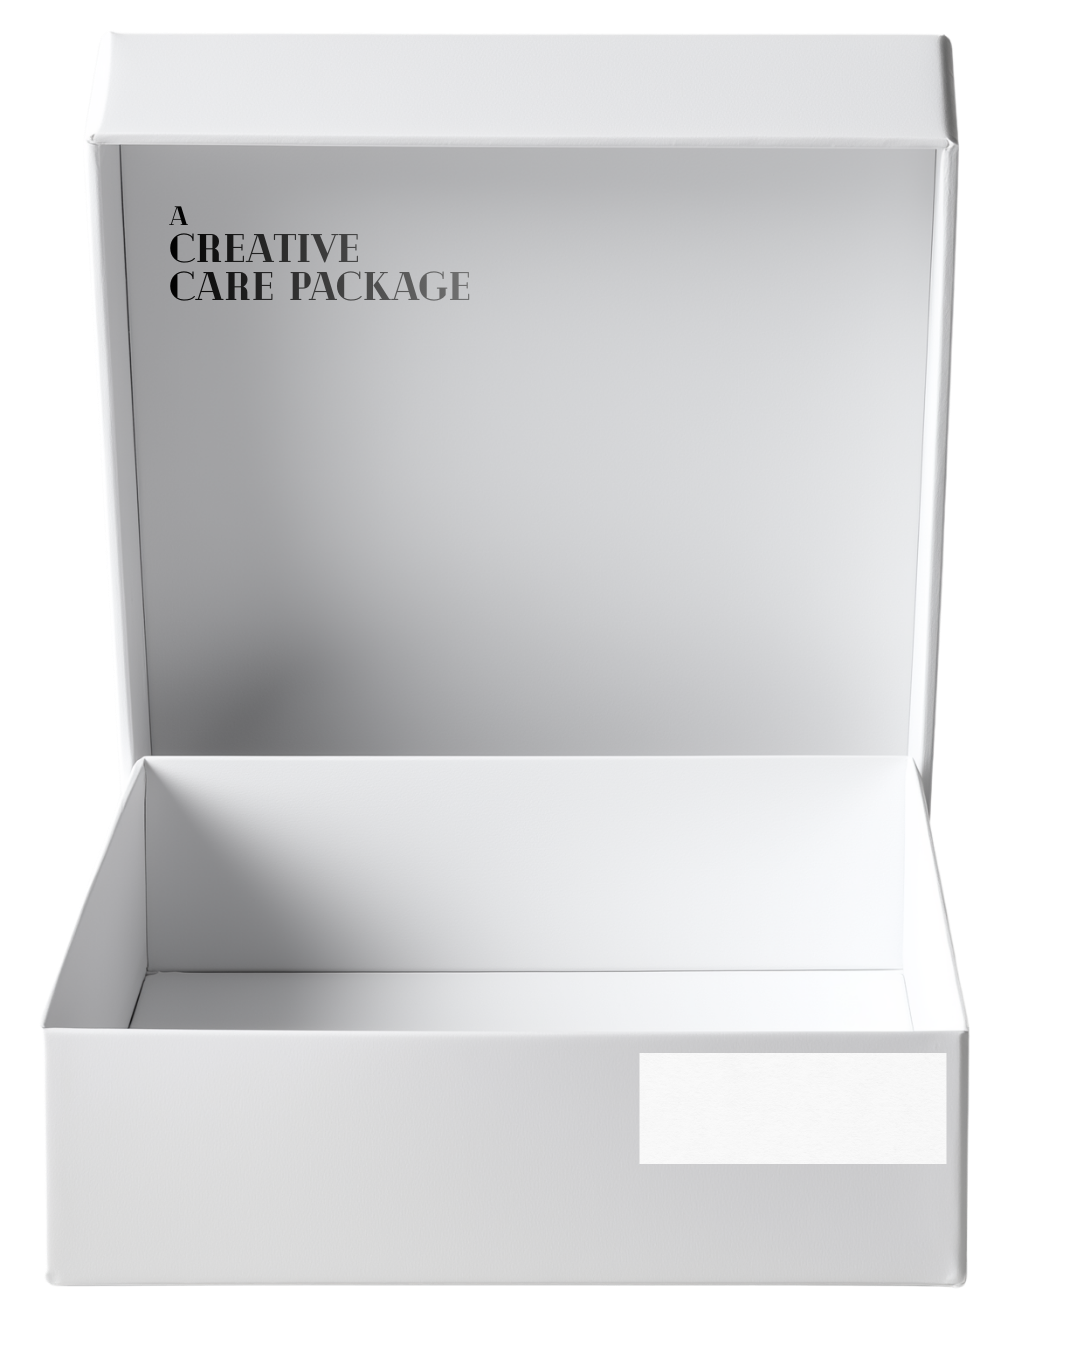
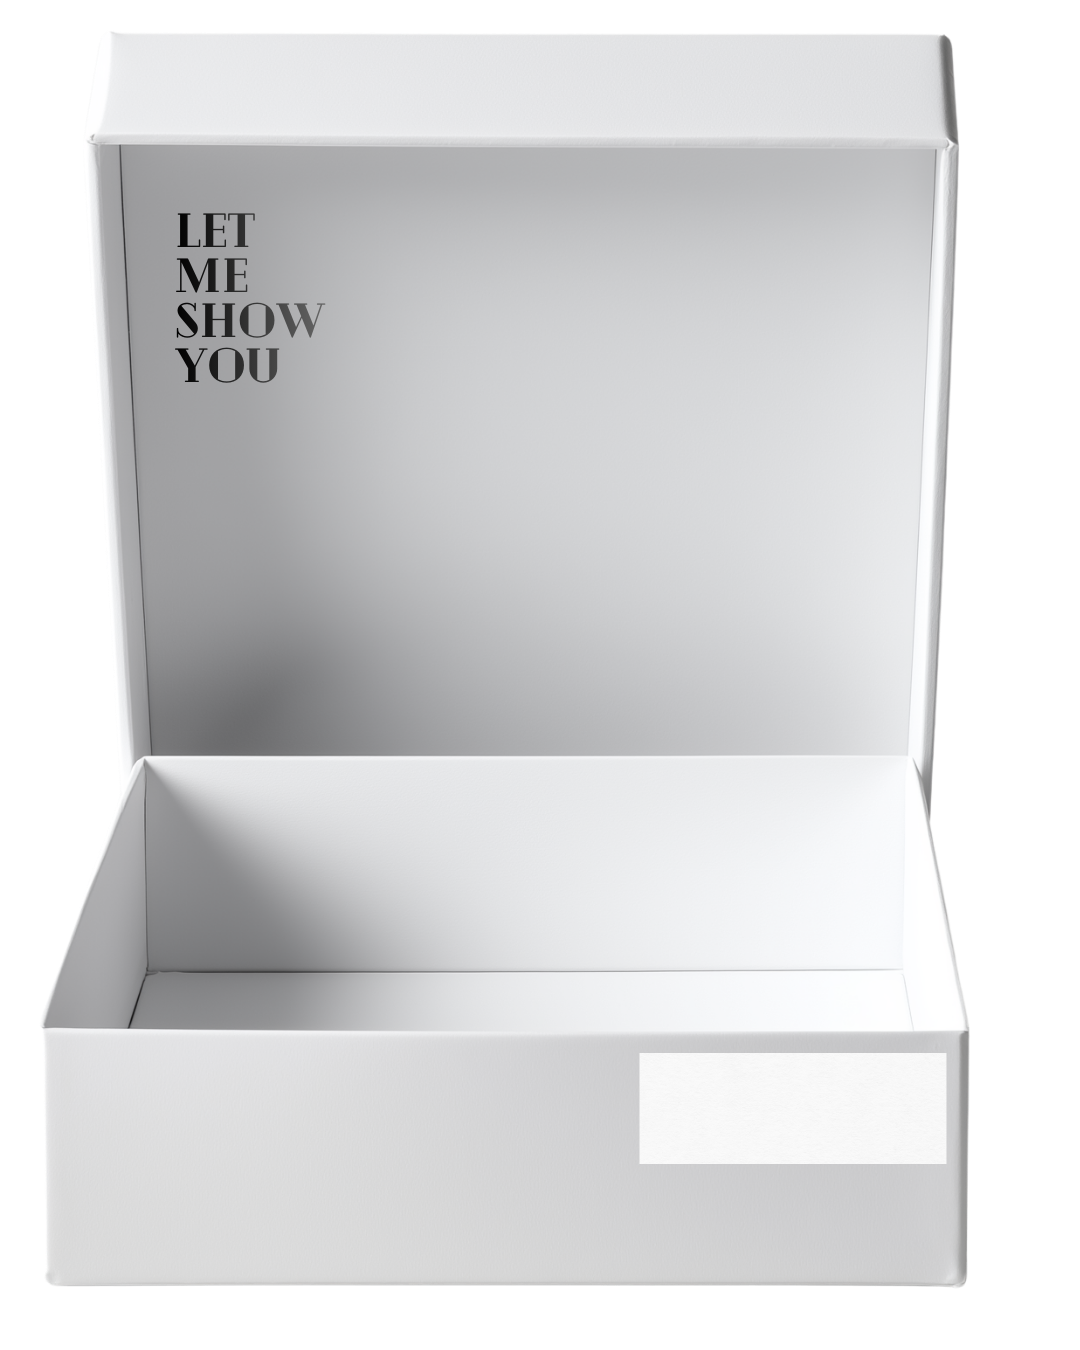
Update about page origin story text
- Simplify dad quote text
- Add "a bunch of" to questions
- Merge "People say I love you" back into paragraph

🤖 Generated with [Claude Code](https://claude.com/claude-code)

Changed region(s): [[0.1528, 0.1556, 0.4278, 0.28]]

diff --git a/app/about/page.tsx b/app/about/page.tsx
@@ -185,7 +185,7 @@ export default function About() {
                 className="overflow-visible"
               >
                 <div className="text-black font-medium font-[family-name:var(--font-inter)]" style={{ color: '#000000', letterSpacing: '-0.03em', fontSize: 'clamp(1.05rem, 3.5vw, 1.2rem)' }}>
-                  When I was 12, I told <span className="relative inline-block cursor-pointer" onClick={() => setShowDadTooltip(!showDadTooltip)} onMouseEnter={() => setShowDadTooltip(true)} onMouseLeave={() => setShowDadTooltip(false)}><strong>my dad</strong><sup style={{ backgroundColor: '#dcff73', borderRadius: '50%', padding: '2px 6px', fontSize: '0.6em', marginLeft: '2px' }}>1</sup><AnimatePresence>{showDadTooltip && (<motion.div initial={{ opacity: 0, y: 10 }} animate={{ opacity: 1, y: 0 }} exit={{ opacity: 0, y: 10 }} className="mobile-tooltip-image absolute left-1/2 -translate-x-1/2 top-full mt-2 bg-white rounded-lg shadow-xl p-2 z-[100]" style={{ letterSpacing: 'normal', width: '180px' }}><img src="/assets/dad.jpg" alt="Dad" className="rounded-lg w-full h-auto" /></motion.div>)}</AnimatePresence></span> that we should find out how fireflies light up and put that in trees and then we&apos;d have glowing trees and people wouldn&apos;t have to pay for electricity. He looked at me and genuinely said that it was a <em>&quot;genius idea&quot;</em> and that I could <em>&quot;win a nobel prize&quot;</em> one day. I made a whole presentation on it that night. For months after, anytime <span className="relative inline-block cursor-pointer" onClick={() => setShowPeopleTooltip(!showPeopleTooltip)} onMouseEnter={() => setShowPeopleTooltip(true)} onMouseLeave={() => setShowPeopleTooltip(false)}><strong>people</strong><sup style={{ backgroundColor: '#dcff73', borderRadius: '50%', padding: '2px 6px', fontSize: '0.6em', marginLeft: '2px' }}>2</sup><AnimatePresence>{showPeopleTooltip && (<motion.div initial={{ opacity: 0, y: 10 }} animate={{ opacity: 1, y: 0 }} exit={{ opacity: 0, y: 10 }} className="mobile-tooltip-text absolute left-0 md:left-1/2 md:-translate-x-1/2 top-full mt-2 bg-white rounded-lg shadow-xl p-2.5 md:p-4 z-[100] w-[200px] md:w-80 text-sm md:text-base font-normal text-left" style={{ letterSpacing: 'normal' }}>Coworkers, neighbors, family friends, old bosses, etc.</motion.div>)}</AnimatePresence></span> came over, he made them watch it. He made them put their phones away and ask me questions. I was a kid talking about glowing trees.
+                  When I was 12, I told <span className="relative inline-block cursor-pointer" onClick={() => setShowDadTooltip(!showDadTooltip)} onMouseEnter={() => setShowDadTooltip(true)} onMouseLeave={() => setShowDadTooltip(false)}><strong>my dad</strong><sup style={{ backgroundColor: '#dcff73', borderRadius: '50%', padding: '2px 6px', fontSize: '0.6em', marginLeft: '2px' }}>1</sup><AnimatePresence>{showDadTooltip && (<motion.div initial={{ opacity: 0, y: 10 }} animate={{ opacity: 1, y: 0 }} exit={{ opacity: 0, y: 10 }} className="mobile-tooltip-image absolute left-1/2 -translate-x-1/2 top-full mt-2 bg-white rounded-lg shadow-xl p-2 z-[100]" style={{ letterSpacing: 'normal', width: '180px' }}><img src="/assets/dad.jpg" alt="Dad" className="rounded-lg w-full h-auto" /></motion.div>)}</AnimatePresence></span> that we should find out how fireflies light up and put that in trees and then we&apos;d have glowing trees and people wouldn&apos;t have to pay for electricity. He told me I was a genius and that I should look into it. He was being serious. I made a whole presentation that night. For months after, anytime <span className="relative inline-block cursor-pointer" onClick={() => setShowPeopleTooltip(!showPeopleTooltip)} onMouseEnter={() => setShowPeopleTooltip(true)} onMouseLeave={() => setShowPeopleTooltip(false)}><strong>people</strong><sup style={{ backgroundColor: '#dcff73', borderRadius: '50%', padding: '2px 6px', fontSize: '0.6em', marginLeft: '2px' }}>2</sup><AnimatePresence>{showPeopleTooltip && (<motion.div initial={{ opacity: 0, y: 10 }} animate={{ opacity: 1, y: 0 }} exit={{ opacity: 0, y: 10 }} className="mobile-tooltip-text absolute left-0 md:left-1/2 md:-translate-x-1/2 top-full mt-2 bg-white rounded-lg shadow-xl p-2.5 md:p-4 z-[100] w-[200px] md:w-80 text-sm md:text-base font-normal text-left" style={{ letterSpacing: 'normal' }}>Coworkers, neighbors, family friends, old bosses, etc.</motion.div>)}</AnimatePresence></span> came over, he made them watch it. He made them put their phones away and ask me a bunch of questions. I was a kid talking about glowing trees.
                 </div>
                 <div className="text-black font-medium font-[family-name:var(--font-inter)]" style={{ color: '#000000', letterSpacing: '-0.03em', fontSize: 'clamp(1.05rem, 3.5vw, 1.2rem)' }}>
                   I still remember the name of the specific molecule. Luciferin. It&apos;s what makes fireflies light up.
@@ -250,10 +250,7 @@ export default function About() {
                   <em>&quot;God exists between people, homie&quot;</em>
                 </div>
                 <div className="text-black font-medium font-[family-name:var(--font-inter)] mt-4" style={{ color: '#000000', letterSpacing: '-0.03em', fontSize: 'clamp(1.05rem, 3.5vw, 1.2rem)' }}>
-                  People work three jobs so their kid can go to dance classes and then watch them forget the routine on stage. People risk their careers and reputations investing in someone else&apos;s dream. People practice for decades to make others laugh, only to get boo&apos;d off stage.
-                </div>
-                <div className="text-black font-medium font-[family-name:var(--font-inter)] mt-4" style={{ color: '#000000', letterSpacing: '-0.03em', fontSize: 'clamp(1.05rem, 3.5vw, 1.2rem)' }}>
-                  People say &quot;I love you&quot; not knowing if it&apos;s going to be said back.
+                  People work three jobs so their kid can go to dance classes and then watch them forget the routine on stage. People risk their careers and reputations investing in someone else&apos;s dream. People practice for decades to make others laugh, only to get boo&apos;d off stage. People say &quot;I love you&quot; not knowing if it&apos;s going to be said back.
                 </div>
                 <div className="text-black font-medium font-[family-name:var(--font-inter)] mt-4" style={{ color: '#000000', letterSpacing: '-0.03em', fontSize: 'clamp(1.05rem, 3.5vw, 1.2rem)' }}>
                   People willing to be fools for each other. There&apos;s something holy in that.